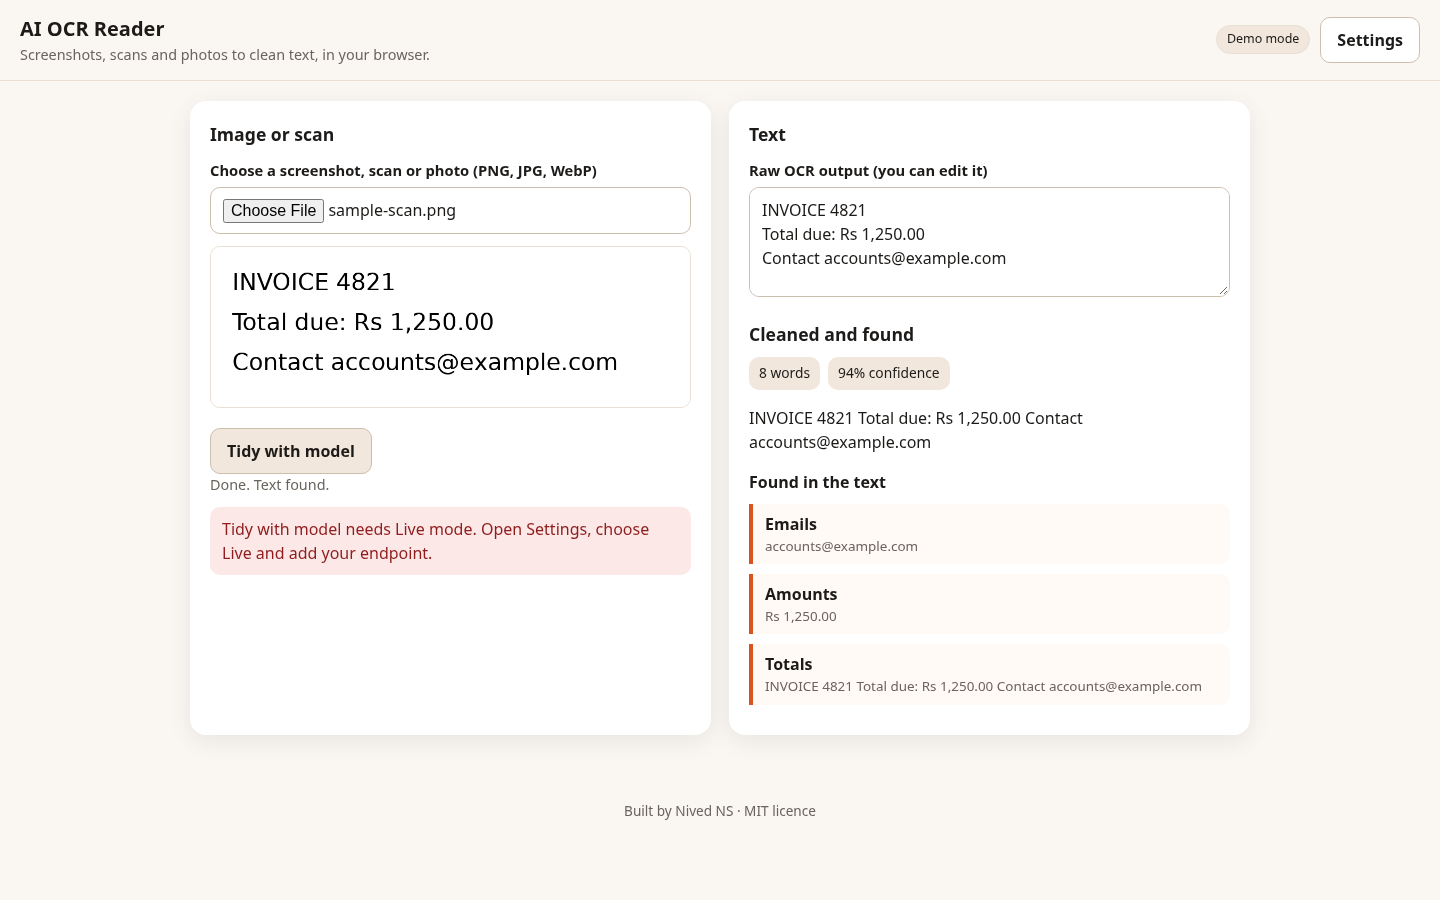
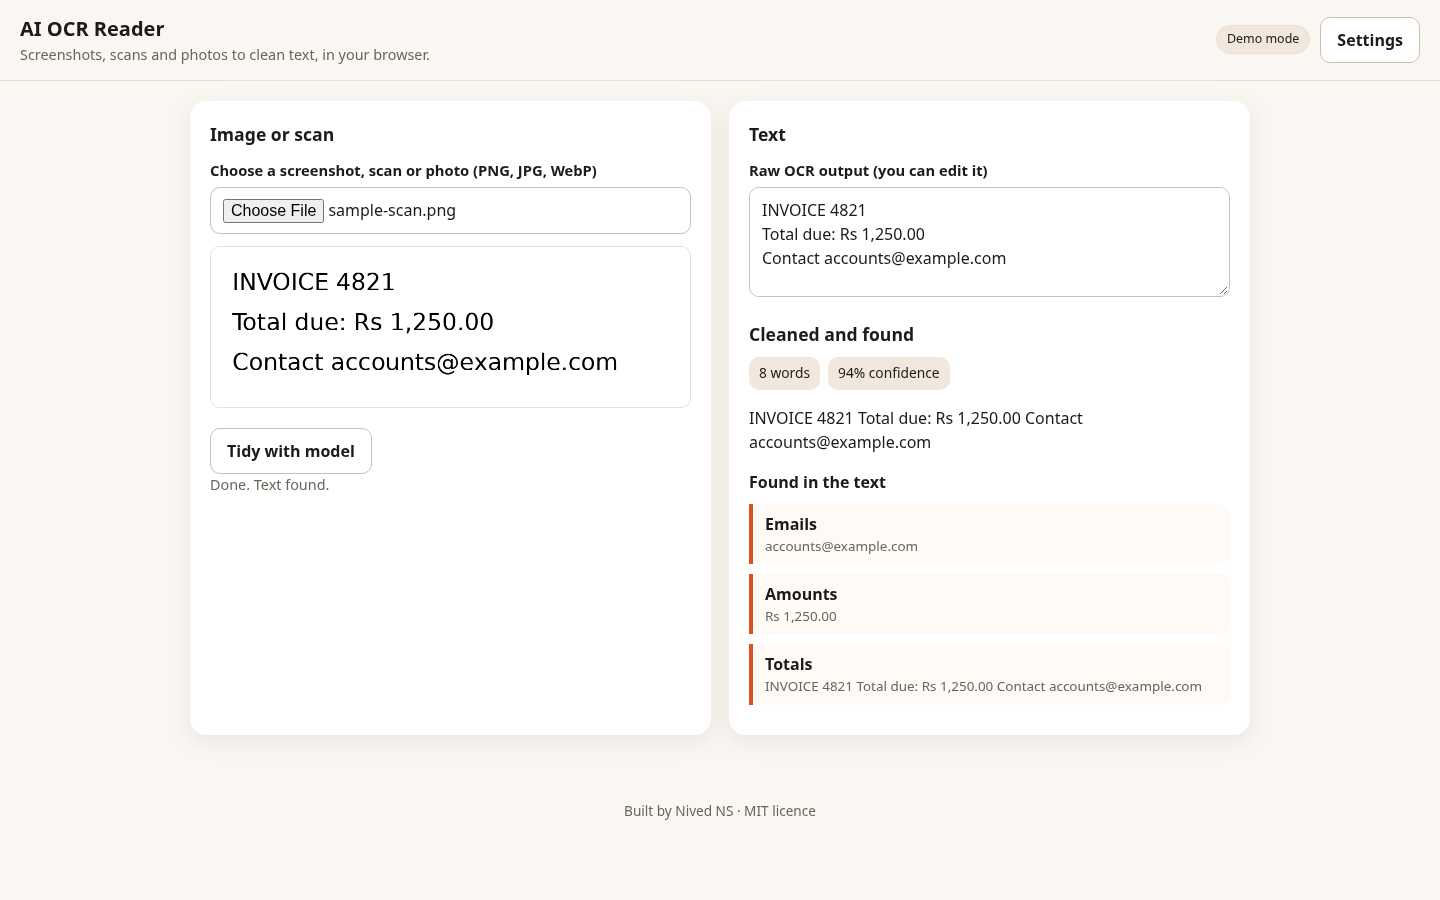
Refresh screenshots, cover and status from final e2e run

Changed region(s): [[0.1562, 0.56, 0.4375, 0.6222], [0.125, 0.4667, 0.2812, 0.5289]]

diff --git a/tests/e2e/common.py b/tests/e2e/common.py
@@ -36,7 +36,7 @@ def configure_live(page):
     page.wait_for_selector("#mode-badge.live")
 
 
-def run_e2e(root, flow, mock_reply, shot_dir=None):
+def run_e2e(root, flow, mock_reply, shot_dir=None, showcase=None):
     """flow(page, mode) drives the app and asserts. mock_reply(request_body) -> text.
     Returns a summary dict; raises AssertionError on any failure."""
     srv, base = serve(root)
@@ -77,6 +77,10 @@ def run_e2e(root, flow, mock_reply, shot_dir=None):
                     assert no_overflow, f"horizontal scroll at {vname} {mode}"
                     assert not real_errors, f"console errors at {vname} {mode}: {real_errors}"
                     if mode == "demo" and shot_dir:
+                        if showcase:
+                            page.reload()
+                            page.wait_for_load_state("networkidle")
+                            showcase(page)
                         page.screenshot(path=os.path.join(shot_dir, f"screenshot-{vname}.png"), full_page=False)
                     checks.append(f"{vname}/{mode}")
                     ctx.close()

diff --git a/tests/e2e/e2e.py b/tests/e2e/e2e.py
@@ -32,8 +32,14 @@ def flow(page, mode):
         assert "Live mode" in page.inner_text("#error")
 
 
+def showcase(page):
+    page.set_input_files("#file", FIXTURE)
+    page.wait_for_function("() => document.querySelector('#raw').value.length > 0", timeout=120000)
+    page.wait_for_selector("#output .stat")
+
+
 if __name__ == "__main__":
     os.makedirs(SHOTS, exist_ok=True)
-    summary = run_e2e(ROOT, flow, mock_reply, shot_dir=SHOTS)
+    summary = run_e2e(ROOT, flow, mock_reply, shot_dir=SHOTS, showcase=showcase)
     print(json.dumps(summary))
     print("E2E PASS")
